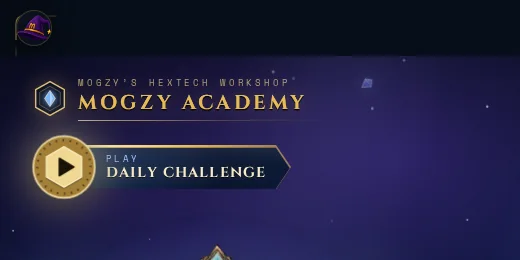
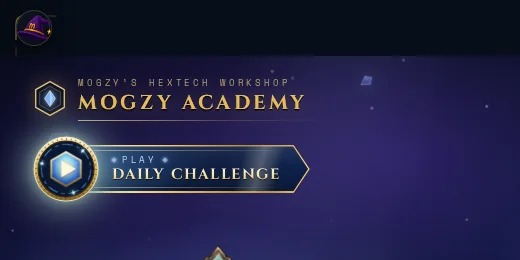
Academy redesign round 2: handoff (mobile fit logic, sigil CTA, evidence) and new stills

Changed region(s): [[0.0308, 0.4923, 0.6154, 0.8308], [0.3692, 0.9538, 0.4615, 1.0], [0.6769, 0.2769, 0.7385, 0.3385]]

diff --git a/docs/handoffs/ACADEMY_HEADER_REDESIGN.md b/docs/handoffs/ACADEMY_HEADER_REDESIGN.md
@@ -75,3 +75,42 @@ The artifact `academy-masthead-screens` of run 39377375321 (head 4a26fcb5) holds
 1. Is the seal's slow-turning tick ring wanted? It stops under reduced motion and does not stop in `lite`.
 2. In short landscape the Orrery is fitted to the screen height, so the books are about 65–80 px wide. Is that acceptable, or should the page scroll with larger books?
 3. Should the desktop crest also show the "Mogzy's Hextech Workshop" eyebrow? Phones hide it.
+
+## Round 2 (2026-10-20): mobile fit + Hextech sigil CTA (commit c9660b76)
+
+The owner approved the desktop direction. Priorities: (1) the mobile composition was cropped on short phones; (2) the Daily CTA needed to be more premium.
+
+### Mobile sizing: what changed in the layout logic
+- **Before:** the stacked stage was `width: min(100%, 520px); aspect-ratio: 360/640`, so its height came from the width alone. On 360x640 and 320x568 the lower book tier fell below the fold.
+- **1. Height budget** (`orrery/academy-core-phone-fit.css`): stage height = `clamp(86 % of compact-at-full-width, --app-viewport-h - above - below, approved 360:640 at full width)`.
+  - above = 4.4rem (hero padding + masthead row + gap).
+  - below = the arrow row (3.6rem) on screens >= 600 px tall, and 0.6rem on shorter ones. There, the arrows follow just below the fold and the books and crystal, which also navigate, stay whole.
+- **2. Rebalanced composition, not just shrunk** (`orrery/composed-fit.ts`, pure and unit-tested): `composedFit(boxW, boxH)` reads the stage box's aspect and returns 0 (the approved tall 360x640) up to 1 (a compact 360x520). Compact means the tiers are drawn in around the Core (Core 330 -> 290 units at y 262), the books go from 0.92/0.90 to 0.86/0.84, and Mogzy is tucked closer. Values in between are interpolated.
+  - `OrreryEngine.resize()` takes the fit for book poses, the Core centre and the tether start.
+  - The page sets the scene's `--h` / `--fit` / `data-fit` from it, and CSS moves the Core, instrument and Mogzy by `--fit`.
+  - The desktop orbit is untouched.
+- **3. Short landscape** uses the compact aspect (360/520), fitted to the screen height.
+- **Measured fit on CI:** 360x640 -> 1, 320x568 -> 0.75, 390x844 and 430x932 -> 0 (the approved look, unchanged).
+
+### Daily Challenge CTA
+- **Sigil:** a gold bezel with engraved notches, a rune ring turning every 36 s, a faceted Hextech crystal holding the play glyph, and a soft aura pulse every 3.8 s.
+- **Plaque:** an engraved plaque with a gold edge, dark Hextech glass and two hairlines, with a sheen passing every 7.5 s.
+- **Desktop hover:** the sigil scales and brightens, the pulse quickens and the sheen runs at once.
+- **Reduced motion and the `lite` tier:** a lit, still sigil.
+- **Size:** 66 px on desktop, 56 px on phones (50 px at <= 300 px). The masthead row stays at about 56 px.
+- **Unchanged:** the accessible name, route, router state, prefetch and #103 entry analytics.
+
+### PR #95 overlap
+- New files: `composed-fit.ts` (+ test) and `academy-core-phone-fit.css`.
+- `OrreryEngine.ts`: imports, a `fit` field, and 4 lines in `resize()` / `renderFrame()`. #95 only adds `steerTo()` around line 250.
+- `AcademyCorePage.tsx`: two imports, the fit state, the RO callback and the scene attributes.
+- Re-check with `git merge-tree` before integrating.
+
+### Evidence
+- `academy-masthead-review` 39381138294: 15/15. It adds per-viewport asserts on 320x568, 360x640, 390x844 and 430x932: all four books and the crystal whole on the first screen, each book >= 96 px wide, and the arrows on screen where the height is >= 600 px. Landscape at 740x360 (and 640x360 to 932x430) fits.
+- `academy-core-orrery` 39381138785: unit 242/242, build OK, V3 spec 23/23, V3.5 spec 55/56. The one failure is the known pre-existing orbit-turn test, which also fails on main.
+- Gameplay Analytics 39381138352: 384/384.
+- The stills in `docs/handoffs/academy-header-redesign/` are this round's captures.
+
+### Known, not changed
+- The "BETA" ribbon on Combat Simulation still crosses the Core on phones (pre-existing).
